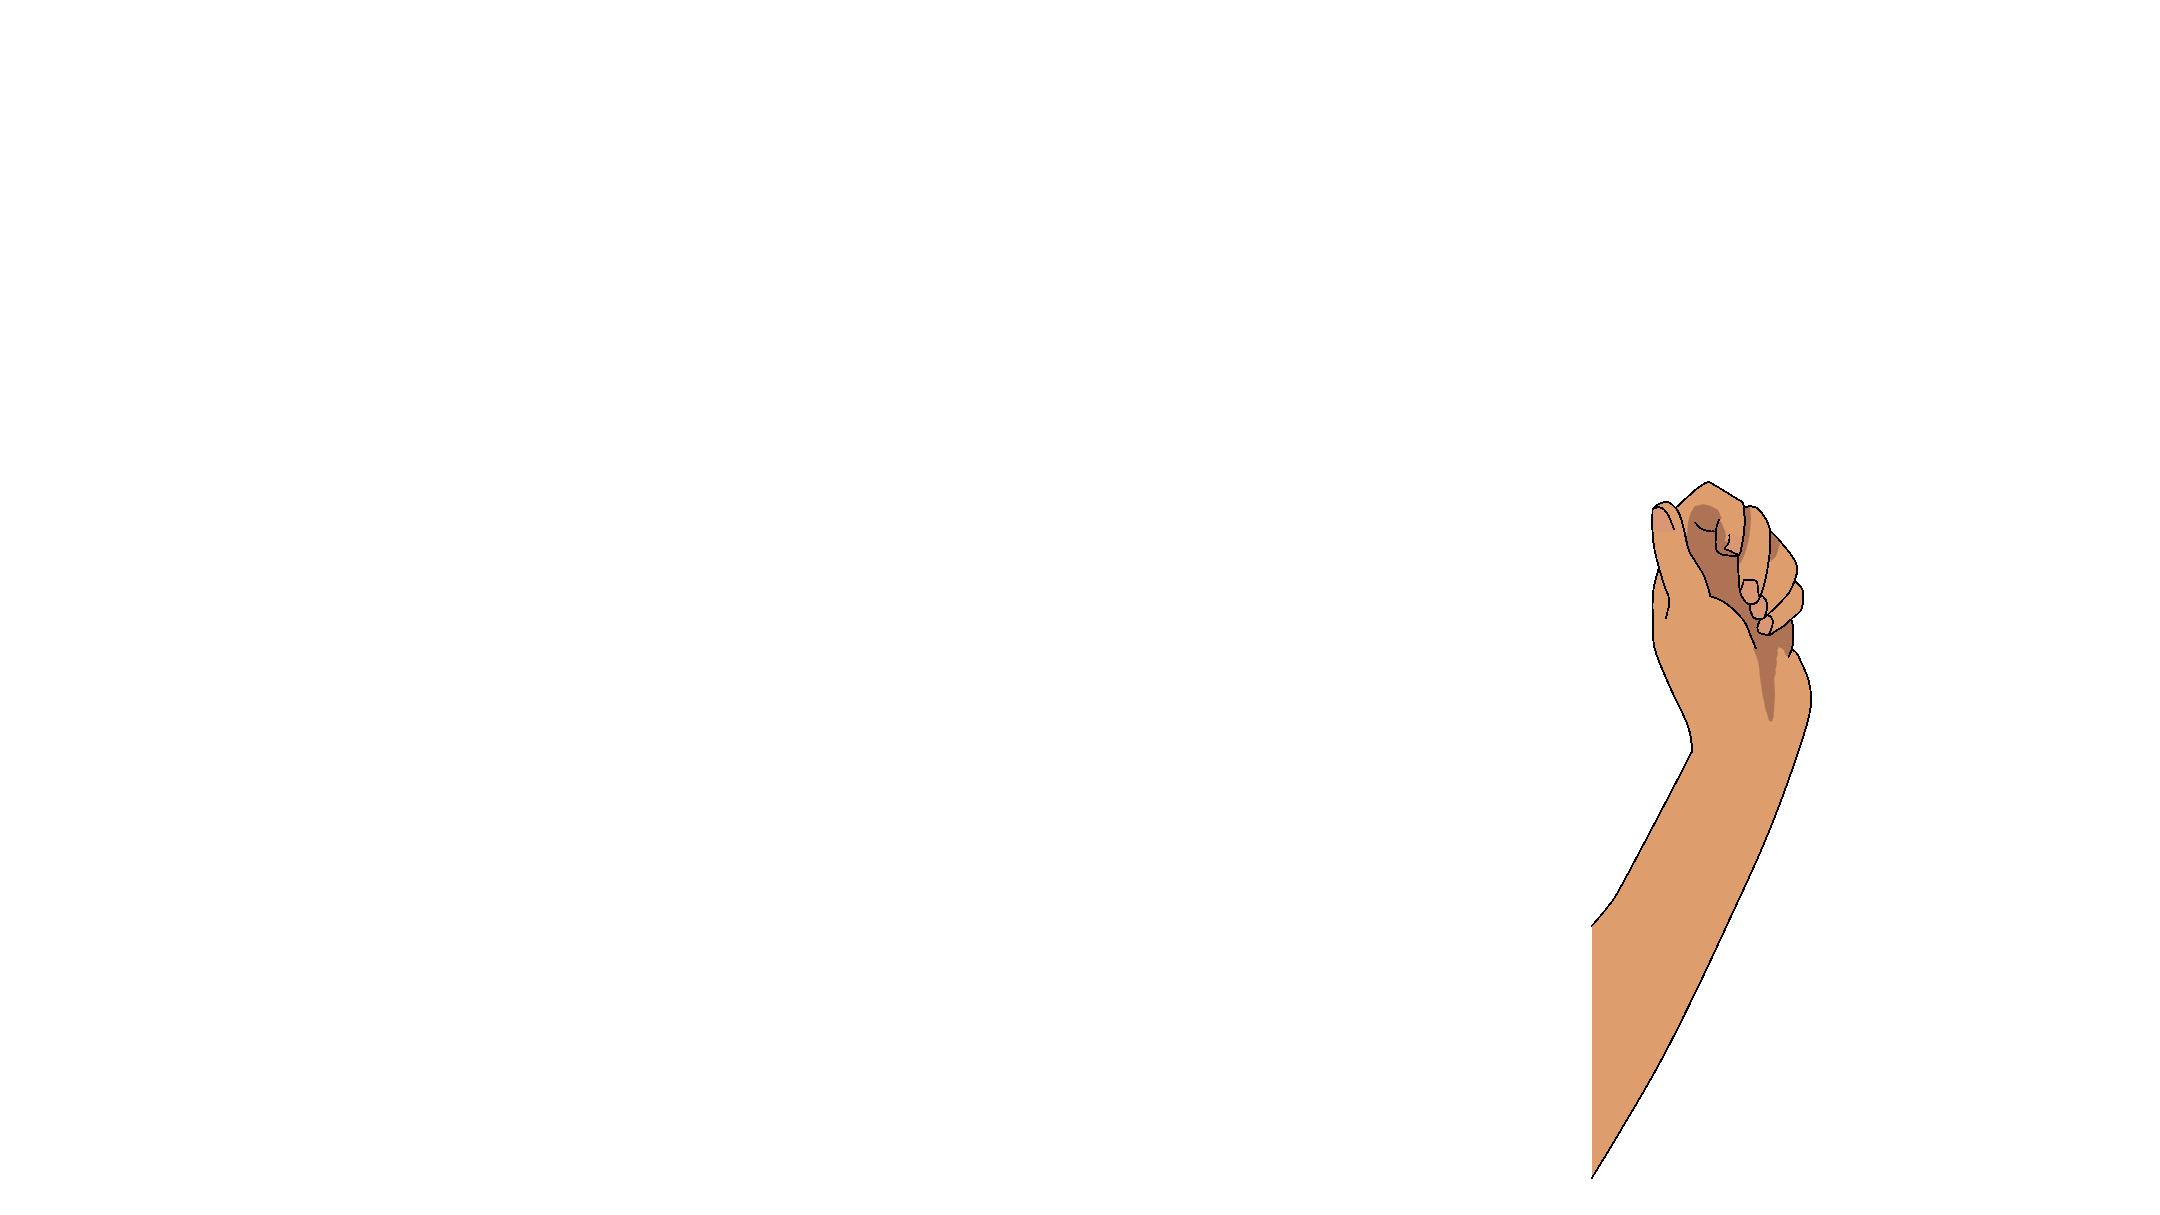
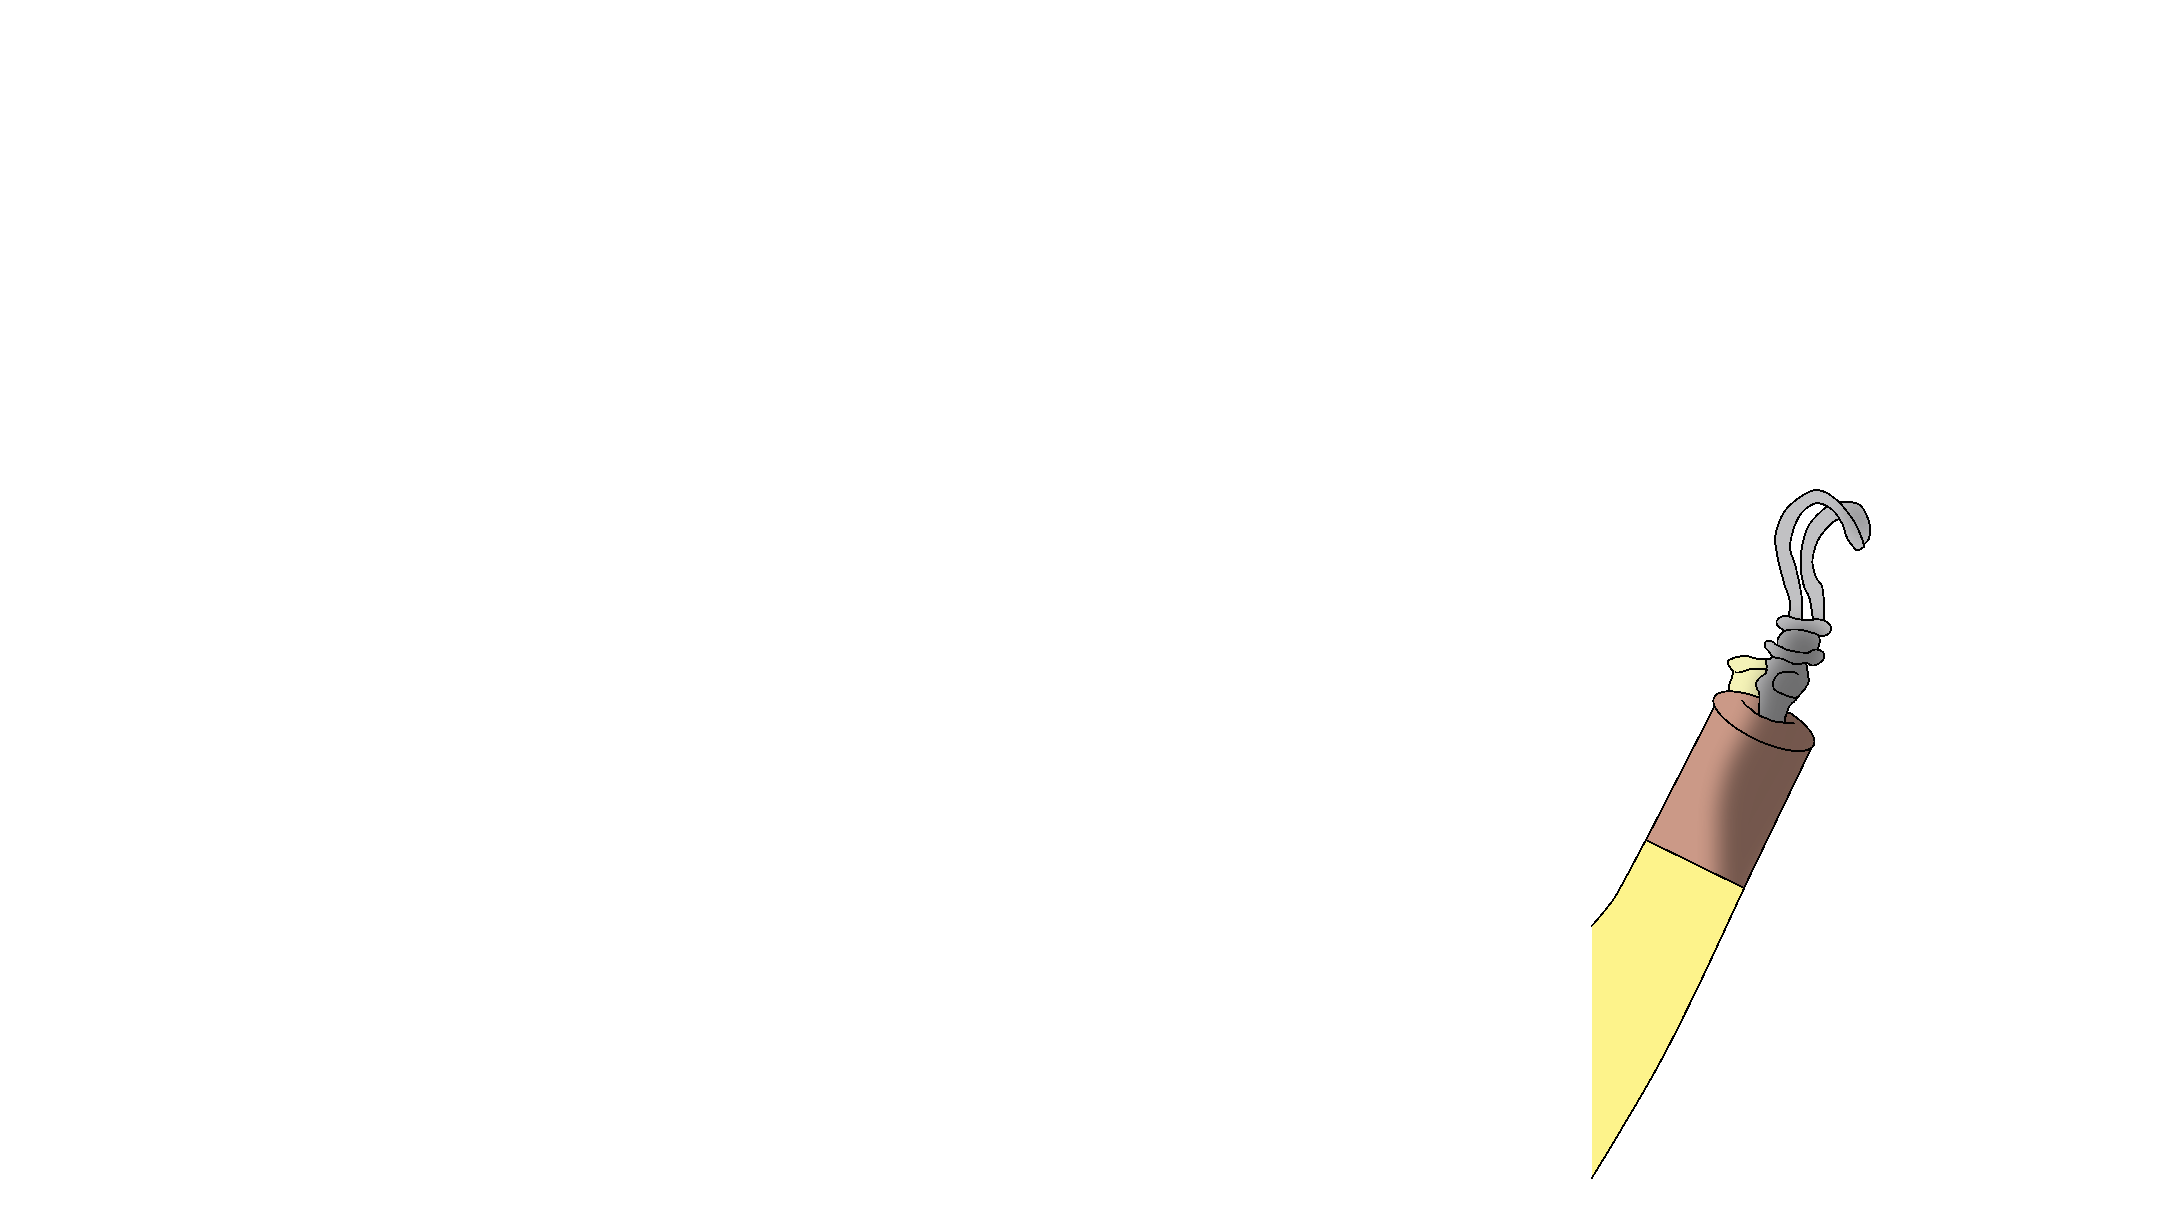
a

Changed region(s): [[0.7134, 0.3959, 0.8685, 0.9745]]

diff --git a/js/main.js b/js/main.js
@@ -137,7 +137,7 @@ function Game_load(width,height){
               break;
             case "左腕":
               Image[11].imageurl++;
-              if(Image[11].imageurl==3) Image[11].imageurl = 1;
+              if(Image[11].imageurl==5) Image[11].imageurl = 1;
               Image[11]._element.src = "image/left_arm/"+Image[2].body+"/"+Image[11].imageurl+".png";
               return;
               break;
